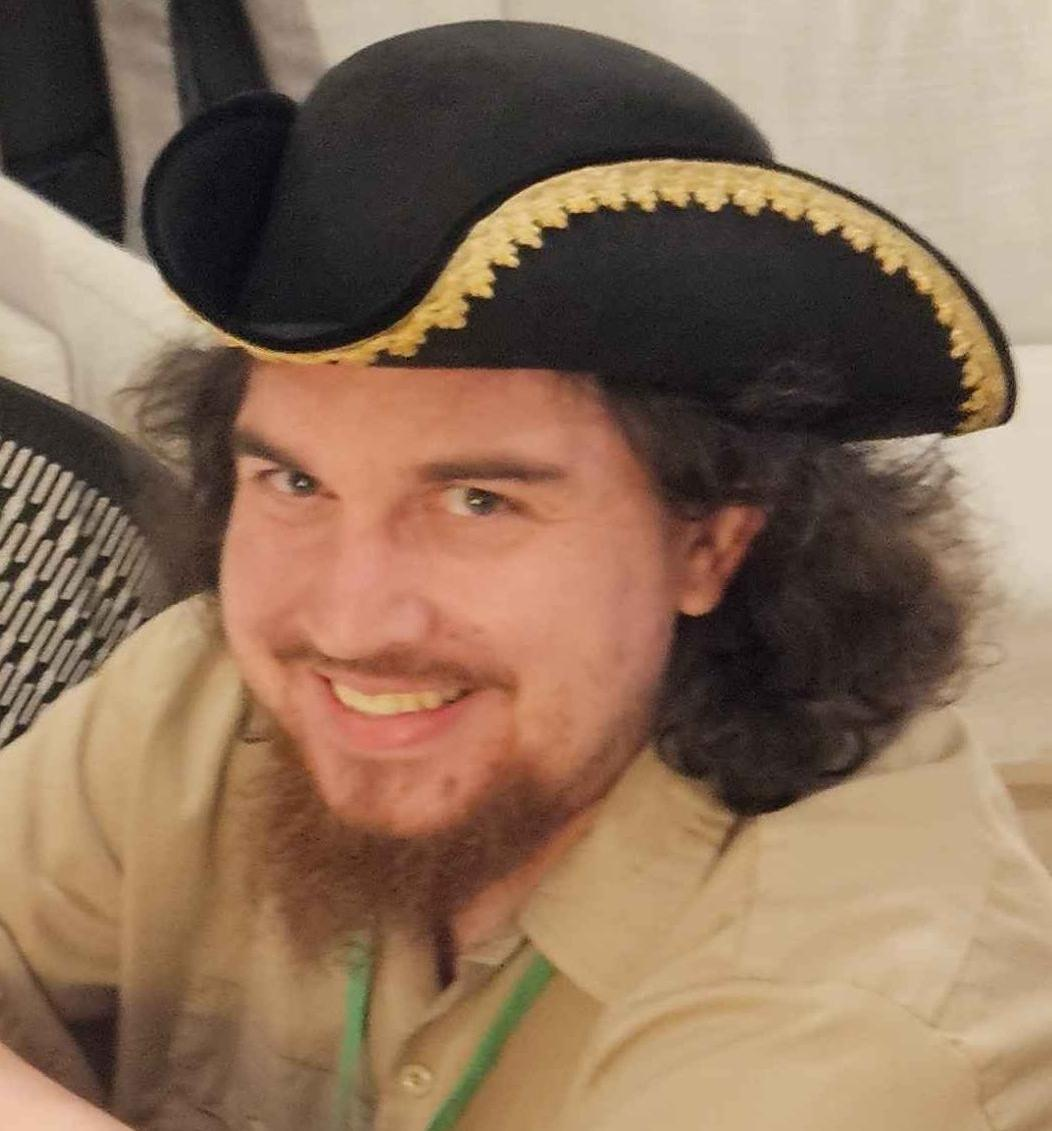
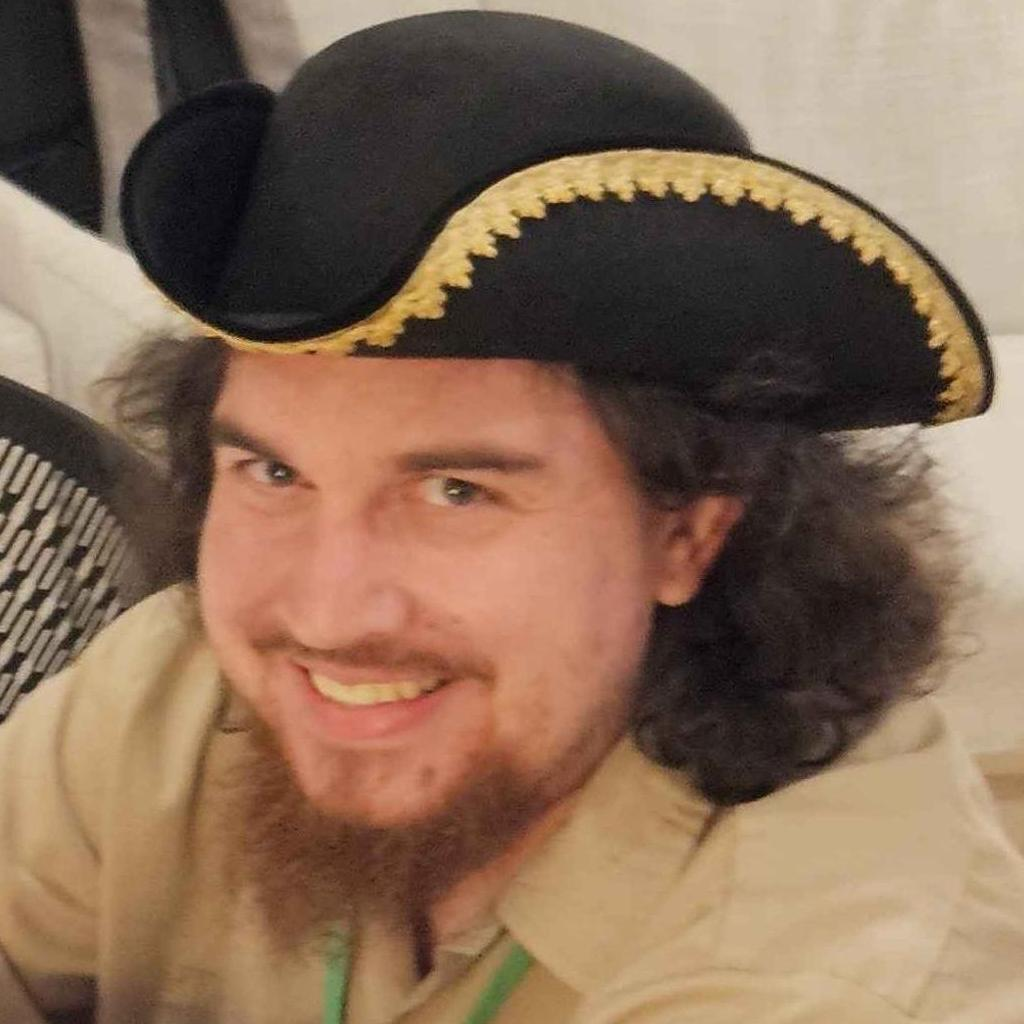
extra headshot - the duality of me

diff --git a/index.html b/index.html
@@ -40,7 +40,7 @@
       height: 8em;
       border-radius: 50%;
       object-fit: cover;
-      object-position: center top;
+      object-position: center center;
       border: 2px solid #d07020;
       flex-shrink: 0;
     }
@@ -48,11 +48,12 @@
 </head>
 <body>
   <div class="header">
+    <img class="profile-photo" src="20241220_solstice_crop_tight.jpg" alt="Jacob Kopczynski">
     <div class="header-text">
       <h1>Jacob Kopczynski</h1>
       <p>An independent researcher, and generalist programmer with backend and SRE tendencies. Also an intermittent writer, because I clearly need more time at my keyboard.</p>
     </div>
-    <img class="profile-photo" src="20250913_pirate_board_crop_tight.jpg" alt="Jacob Kopczynski">
+    <img class="profile-photo" src="20250913_pirate_board_crop_tight.jpg" alt="Jisk Kopczynski">
   </div>
   <h4>Some links:</h4>
   <ul>
